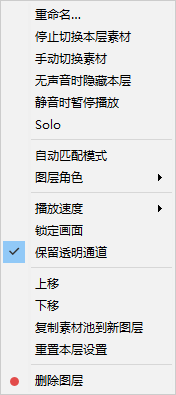
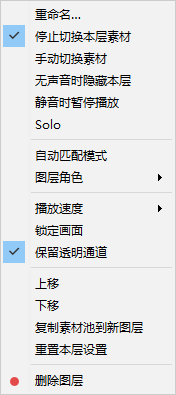
停止切换本层素材：文案固定不变，状态只由勾表示（不再改名「恢复切换」）

Changed region(s): [[0.0, 0.0608, 0.142, 0.1215]]

diff --git a/src/ui_main.py b/src/ui_main.py
@@ -5561,10 +5561,11 @@ class MainWindow(QMainWindow):
         m = QMenu(self)
         m.setToolTipsVisible(True)      # ★ 长条目拆短后，括号里的说明挪进悬停提示
         a_ren = m.addAction("重命名…")
-        # ★ 2026-10-25（用户要求）：与素材右键菜单统一口径 ——
-        #   「停止切换本层素材」= 这一层停在当前这张图上；已经在停时显示「恢复切换」。
+        # ★ 2026-10-25：文案**固定**为「停止切换本层素材」，不再随状态改名。
+        #   用户明确要求：前面已经打了勾，勾本身就表示"已停住"，文案跟着变反而让人以为
+        #   是另一个功能（截图里"✓ 恢复切换本层素材"就是这么来的）。勾 = 已停止切换。
         _stopped = lay.fixed >= 0
-        a_fix = m.addAction("恢复切换本层素材" if _stopped else "停止切换本层素材")
+        a_fix = m.addAction("停止切换本层素材")
         a_fix.setCheckable(True)
         a_fix.setChecked(_stopped)
         a_fix.setToolTip(T("本层停在这一张素材上，不再自动换；也挡不住你手动切"))
@@ -5830,10 +5831,11 @@ class MainWindow(QMainWindow):
         a_size.setEnabled(media is not None)
         # ★ 2026-10-25（用户要求）：菜单文案改成「停止切换本层素材」——
         #   它做的事就是"这一层停在这张图上"，不是"设为默认素材"，旧文案容易被理解反。
-        #   已经停在当前这张时，文案反过来写成「恢复切换」，点一下即可解开。
+        #   文案**固定不变**：已停住时前面就是个勾（勾 = 已停止切换），
+        #   别再改成"恢复切换"——那会让人以为点了是另一个功能。
         _fixed_here = (media is not None and lay.fixed >= 0
                        and 0 <= lay.fixed < len(lay.clips) and lay.clips[lay.fixed] is media)
-        a_fix = m.addAction("恢复切换本层素材" if _fixed_here else "停止切换本层素材")
+        a_fix = m.addAction("停止切换本层素材")
         a_fix.setCheckable(True)
         a_fix.setEnabled(not is_auto)
         a_fix.setChecked(_fixed_here)

diff --git a/src/_build_ver.py b/src/_build_ver.py
@@ -2,6 +2,6 @@
 # 由 tools/build_version.py 自动生成，请勿手改（每次打包会覆盖）。
 # 版本号规则：年份.月.日.当日第几次生成（两位数）。
 BUILD_DATE = "2026-10-25"
-BUILD_SEQ = 2
-BUILD_VER = "2026.10.25.02"
-ZIP_NAME = "EasyRealityAutoVJ_测试版102502.zip"
+BUILD_SEQ = 3
+BUILD_VER = "2026.10.25.03"
+ZIP_NAME = "EasyRealityAutoVJ_测试版102503.zip"
